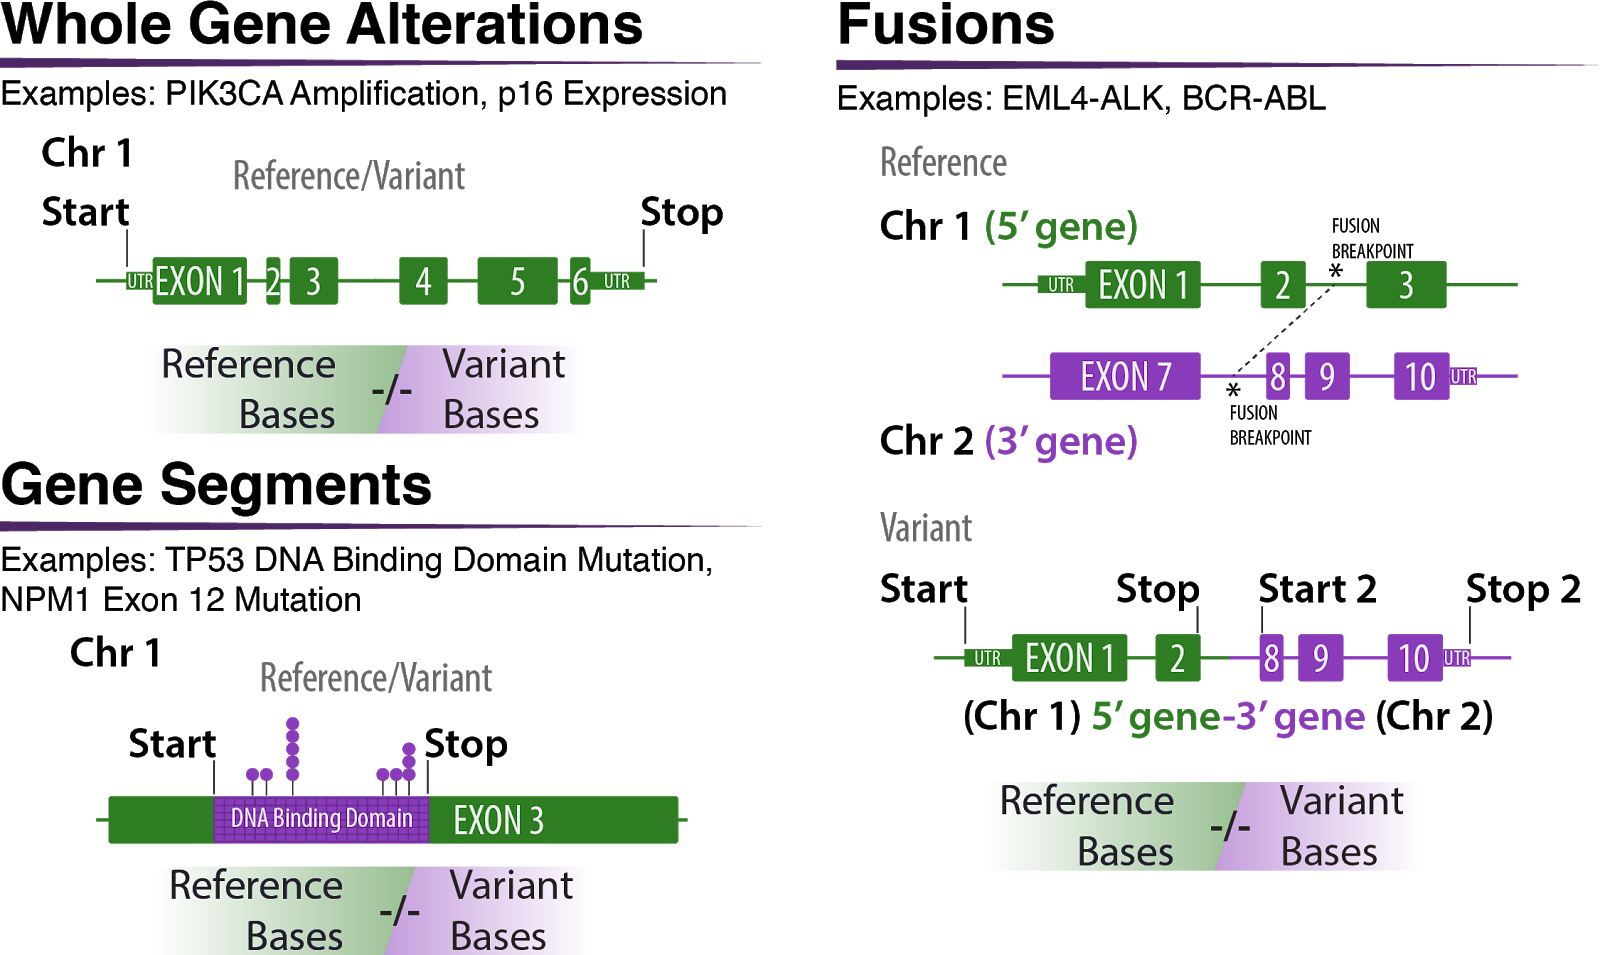
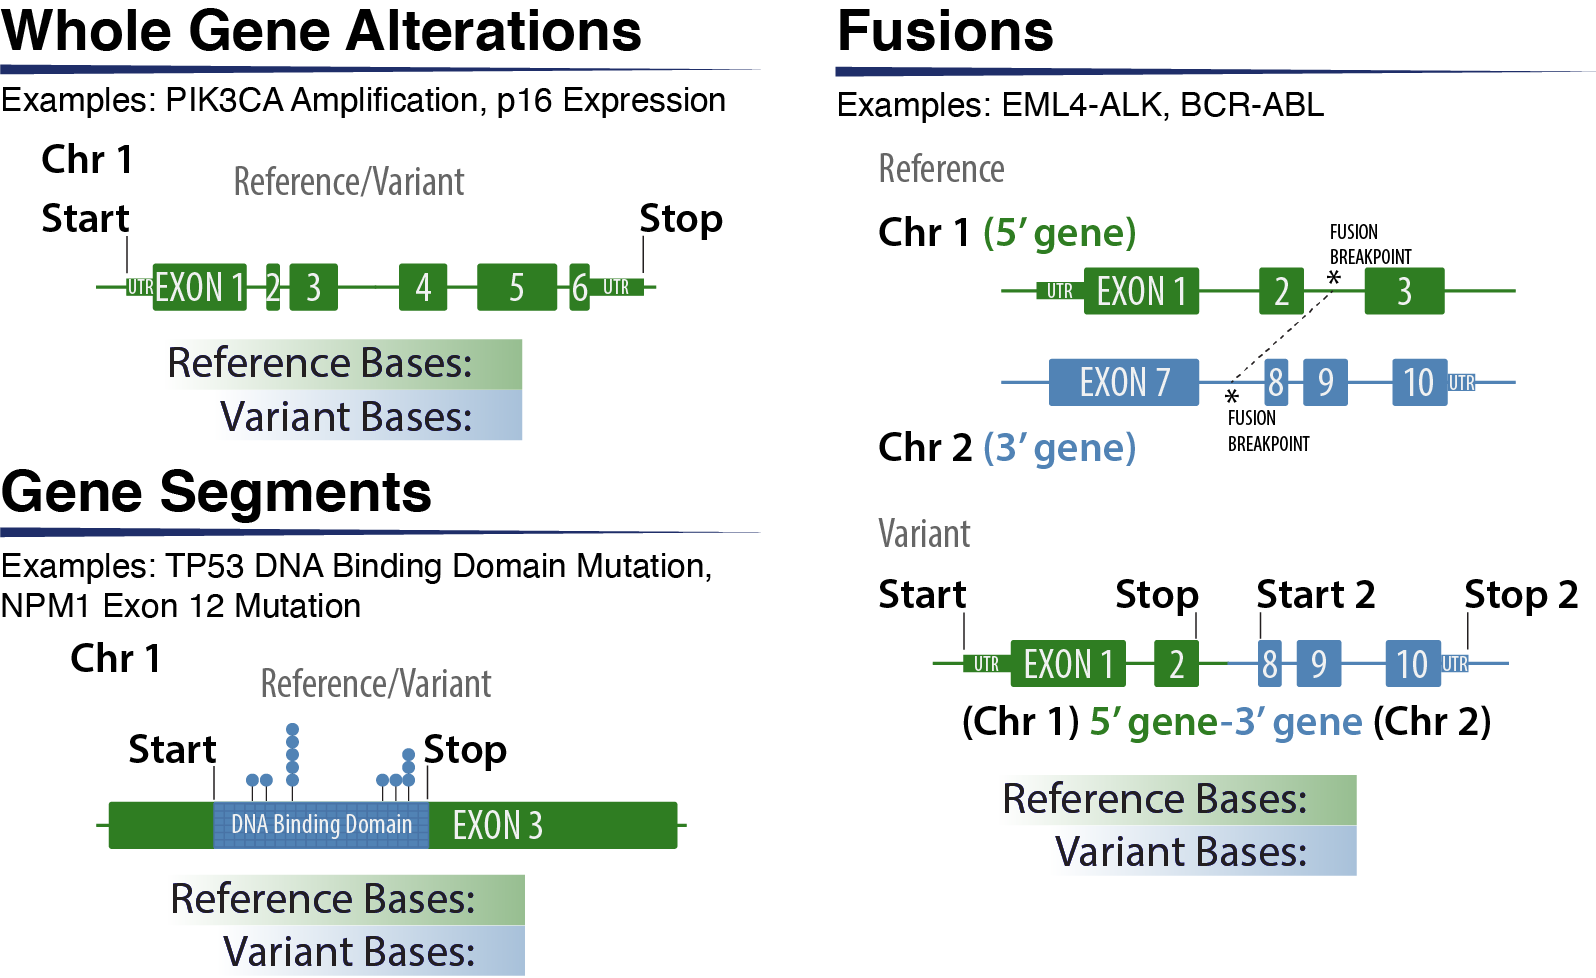
update variant curation figures to harmonize with the sop paper

diff --git a/docs/model/variants/coordinates.rst b/docs/model/variants/coordinates.rst
@@ -21,9 +21,9 @@ Multiple transcripts can often be expressed for a single gene. For this reason, 
 Curation Practice for SNVs and Small Indels
 ~~~~~~~~~~~~~~~~~~~~~~~~~~~~~~~~~~~~~~~~~~~
 
-Variant annotation for single nucleotide variants (SNV) and small insertion/deletions (indels) follow a 1-based coordinate system and utilize left-shifted normalization. Reference positions are indicated in green and variant positions in purple. Below in Figure 1, each representation is the text that would be entered into the CIViC Reference Base and Variant Base fields in the Variant Suggested Revision form.
+Variant annotation for single nucleotide variants (SNV) and small insertion/deletions (indels) follow a 1-based coordinate system and utilize left-shifted normalization. Reference positions are indicated in green and variant positions in blue. Below in Figure 1, each representation is the text that would be entered into the CIViC Reference Base and Variant Base fields in the Variant Suggested Revision form.
 
-.. figure:: /images/figures/VariantCoordinateCuration_SNVs_small_indels_alt.png
+.. figure:: /images/figures/VariantCoordinateCuration_SNVs_small_indels_complex_alt.png
    :alt: Example SNVs and small indels
 
    Figure 1: Example SNVs and small indels
@@ -58,9 +58,9 @@ Coordinates represent the entire putative fusion transcript including start to e
 Curation Practice for representative transcripts
 ~~~~~~~~~~~~~~~~~~~~~~~~~~~~~~~~~~~~~~~~~~~~~~~~
 
-Genes often have multiple transcript representations. CIViC utilizes Ensembl v75 for transcript annotations. The representative transcript for *WT1* depicted in purple below was chosen because it has the widest outer coordinates with the most common exons compared to the other transcripts depicted in green. This transcript is further highlighted by \*\*\* because it is also designated as the “canonical transcript” by Ensembl using select criteria defined in their `glossary of terms <http://useast.ensembl.org/Help/Glossary>`__.
+Genes often have multiple transcript representations. CIViC utilizes Ensembl v75 for transcript annotations. The representative transcript for *WT1* depicted in blue below was chosen because it has the widest outer coordinates with the most common exons compared to the other transcripts depicted in green. This transcript is further highlighted by \*\*\* because it is also designated as the “canonical transcript” by Ensembl using select criteria defined in their `glossary of terms <http://useast.ensembl.org/Help/Glossary>`__.
 
-.. figure:: /images/figures/WT1-transcript.jpg
+.. figure:: /images/figures/WT1-transcript.png
    :alt: Example representative transcript for *WT1*
 
    Figure 3: Example representative transcript for *WT1*
